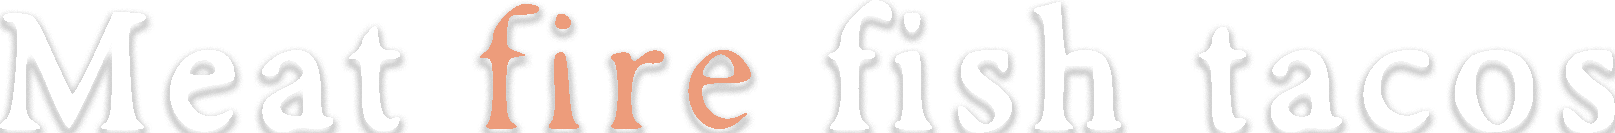
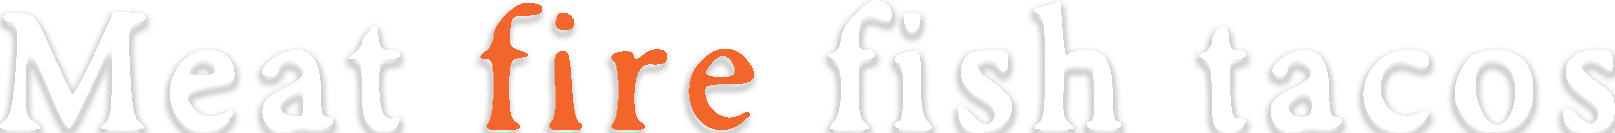
image updates, side scrolling gallery added to about us

Changed region(s): [[0.2786, 0.0301, 0.4644, 0.9925]]

diff --git a/src/components/Home/AboutUsPhotos.ts b/src/components/Home/AboutUsPhotos.ts
@@ -1,0 +1,62 @@
+export const images: string[][] = [
+  [
+    //Weddings
+    "https://www.addtoevent.co.uk/sites/default/files/styles/one_third/public/user/1151856/supplier/images/img-20220612-wa0001.jpg",
+    "https://lh3.googleusercontent.com/pw/AP1GczP_nmGV3zVLmoLKsh7jWoT0dc3gZ4Q__hKujMqSWme09CeosWMuHDkpoqrq8c2BWRJFXYzTo7cwQYojfpv-0WUIuIn7Cc_huv9esRspTzsKucrYJ1wNGAgeFmrX6AbMBl31fUAGLFpj2j7tYif1uA8=w1600-h1067-s-no-gm?authuser=1",
+    "https://encrypted-tbn0.gstatic.com/images?q=tbn:ANd9GcQtvZaF1suvjvk-YmGZCD75LQaC4i0Zgjoh5w&s",
+    "https://lh3.googleusercontent.com/pw/AP1GczOnEi5yvgkabXVKVtrS3yd5BcHIxZphqED5a-xTBbkRXUuo71gb5lT0S7qSSno-ueJsoTbJQUJ6iaqWy68mIxY8QXogzIVcM2Dykxh3oy6n7sEFPbcKQAG4f5Dkw8tSHaE8SoLq_T3Wn4kiQ1jz3Lc=w1048-h1396-s-no-gm?authuser=1",
+    "https://lh3.googleusercontent.com/pw/AP1GczMQ3fGrkLJ-kMmRRFYGD_vqgI6vBIzC-sOKaktX2x2D3YnmkwCwtBx2Seww63b_apil8AzIdg0qaVlLfiNZl3t_ph4t76lTHHnT8km8UxI9-X4_P8twRPsC7Ygs-FczbconWFWheins9k-KHLoWryk=w2094-h1396-s-no-gm?authuser=1",
+    "https://lh3.googleusercontent.com/pw/AP1GczOgVfDRjnO-nQnPv-czG_1Ya-lvUkT5OgdsJxAmx8PlCrPxt1ZvwoRepwMTRUOx0mo_2droDBLe9_4aaPuryVbw6J_jyLewiTqgqSYxq92rXUmPg1Ayij87bTDBlgycAJ1JZA1FUQxPgtnwJZCC35w=w2082-h1388-s-no-gm?authuser=1",
+    "https://i.pinimg.com/564x/cf/48/9b/cf489b7beb92a7e98645edc05daea89d.jpg",
+    "https://lh3.googleusercontent.com/pw/AP1GczMitnkR_9Jqvhg6sa6IZ_3F8mS4rzqS4NtPJICJABflDvqUIXt3xSjkSiSIk6sGwdm9Yow0tyobA9Qkjv83ShZqyLwivC84zjAyNXOu9tiq85_t9fRgXgW5EzeQ9rZqmFWWFuN9kHKQh_Kls2mzb-0=w930-h1396-s-no-gm?authuser=1",
+    "https://lh3.googleusercontent.com/pw/AP1GczNu-8W9uDOozhmyZi6MxxQnyB7m5MxGaKM-f4TZEsi4q4hcm1B9gKQXHMeat7gOR_8vYNIM2nf6TcaEmdH3_PkY2fRdEiVr7RRCrrwX5yFwdI7ZbunOgMAFO67EITwGQMPxhgfuVK-y3OSQLCkkKSI=w2094-h1396-s-no-gm?authuser=1",
+    "https://i.pinimg.com/564x/7b/ef/3c/7bef3c916da08c016c831e1725e04882.jpg",
+  ],
+  [
+    //Festivals
+    //SFS
+    "https://streetfoodcircus.co.uk/sites/default/files/styles/carousel_landscape/public/2024-02/IMG_6412_1.jpg?h=fa10a8d4&itok=krI8TAeZ",
+    //Festival Set Up
+    "https://lh3.googleusercontent.com/pw/AP1GczMrJAbCNe22Bmtm1RINQ6hQ91FqWKBOx-1QdM6cIh_RRX78gx9Vdv2XbGJlhqa_6D-QRX2-mjXFz6BsgyEUtHKHBcGUxHlcNE-4MPFAiSKeAgmkw072X_nuYD30FZllb3HsnHTf6JG5AyXuvoiNQwE=w906-h1356-s-no-gm?authuser=1",
+    "https://lh3.googleusercontent.com/pw/AP1GczOT0h601Coayq0FgNNHd2vv7ZhsikQajO423kdxs4CBuL0ex-Ox_KC5NQnbJh4ZVQLl2LvNfOBf_ibuEVnuWr64-3M31ZNe2BQfZif5_C7ncCqGItp868LaPH5CWwl27Z9XWDo7COT4Osd2AUjFeEY=w1018-h1356-s-no-gm?authuser=1",
+    //Royal Welsh Show
+    "https://rwas.wales/app/uploads/2019/10/ITV-Wales-Cymru-RWS-2019-100-Photo-1.jpg",
+    //Cardiff Food and Drink Festival
+    "https://itsoncardiff.co.uk/wp-content/uploads/2023/05/Cardiff_food_Drink_festival.jpg",
+    //Festival Set Up
+    "https://lh3.googleusercontent.com/pw/AP1GczOr48yVJuh_LM1Bb040atctvIq3OnIERM-PUW0cpofnbIgBxGf1wpja8kF6lQAFidjLL5LQ7xz8zQFgp1nKbBWI1snk1yL5M3HEFPs93ayJwqCpO2JP2Ml7WESVZeFgJmIhEwangYEFduYgi9g-Rs4=w906-h1356-s-no-gm?authuser=1",
+    //Roath Yard
+    "https://i2-prod.walesonline.co.uk/incoming/article27058882.ece/ALTERNATES/s615/1_Street-Food-Circus-Roath-Yard-14052022.jpg",
+    //Caldicot Castle
+    "https://www.southwalesargus.co.uk/resources/images/17023300/?type=responsive-gallery-fullscreen",
+    //Festival Set Up
+    "https://lh3.googleusercontent.com/pw/AP1GczOc6mKgXvsk86R84bDFdKHggsd75CntMI_610cARPuhbJdwdD4qPa81kN1jCnWiRGZ3QKDbjBhJhCHLKEOwrI5GMP67klEDmeN457PmFTYpc953Uc0JpUZvQkNhvr3Tk_-h6xIW93JNvwpEpOy7eUw=w1018-h1356-s-no-gm?authuser=1",
+    //Merthyr Mawr
+    "https://i2-prod.walesonline.co.uk/incoming/article29033453.ece/ALTERNATES/s615b/1_RJS_200424_circus2JPG.jpg",
+  ],
+  [
+    //Pop-ups
+    "https://i2-prod.walesonline.co.uk/incoming/article20257021.ece/ALTERNATES/s615b/0_Screenshot-2021-03-25-162339.jpg",
+    "https://encrypted-tbn0.gstatic.com/images?q=tbn:ANd9GcQjTOOjXJHRKYo8hUplsLk5EzfwVz0AiC4yTg0PNvHJjB9-K8SRJPmfYLzkj5yncrMUoQM&usqp=CAU",
+    "https://encrypted-tbn0.gstatic.com/images?q=tbn:ANd9GcTtebpZJCHY5osO4hPT4ChUQoNqENSQFcfFSw&s",
+    "https://lh3.googleusercontent.com/pw/AP1GczM7HmyYkufkH4D2eRjH4wCTQW8VLUqlr2uyQkUQ61ksC8hHGFfb8VVF1R8OG6362pUzUHvJwGUNl683eDoiDhgnT5KT7HKPcvpTwdqpnZL5nrus36Jna56Ai-LceWG7Ux-DYI9gzeCoWXT8L4s8Vms=w904-h1356-s-no-gm?authuser=1",
+    "https://tiger-yard.com/wp-content/uploads/2023/09/D75_6324-1024x684.jpg",
+    "https://i2-prod.walesonline.co.uk/incoming/article26353849.ece/ALTERNATES/s1227b/0_260223-Twenty-Six-Cardiff-Wales-United-Kingdom.jpg",
+    "https://www.cardiff.ac.uk/__data/assets/image/0004/1294933/CSL-pic1.jpg",
+    "https://i2-prod.walesonline.co.uk/incoming/article20838429.ece/ALTERNATES/s615/0_rbp_mai150621coffee8412JPG.jpg",
+    "https://depotcardiff.com/wp-content/uploads/2023/07/Hire-Page2-1024x684.jpg",
+  ],
+  [
+    //Private Events
+    "https://www.cardiffstudents.com/pageassets/activities/resources/rooms/su-rooms/DSC_0101.JPG",
+    "https://lh3.googleusercontent.com/pw/AP1GczPszyTy9B1W1F5gpixlHSZAwm9g3ygzWpGNn3QNIQLz6z6cEkrDf0Rw81VQVdMQ96olcu0DSiYXswqxbXT1dHJTAvz7OCL1vXeiyK3AoPNbLSAwCox82VyJtFRF3UnK99hiKICz54r0FSsf28L87kM=w904-h1356-s-no-gm?authuser=1",
+    "https://i2-prod.walesonline.co.uk/incoming/article27196742.ece/ALTERNATES/s615b/0_rbp_mai140521pryzm7102JPG.jpg",
+    "https://lh3.googleusercontent.com/pw/AP1GczNWWanr7GMyaUBb7G5LMvp-bxUEs8J2gxtZsVa8Id75Oz8A7qFhidwb9-hRnqUAy1q1o8vIR7bPygd81IG38wMT-VsDD-VRGobrpWaRDQy4T6P5N3oVJK9kKG0S0I2ggbXuU6cZ6NLDefB-rSCNRSs=w2034-h1356-s-no-gm?authuser=1",
+    "https://img.gs/vvjnmlqfld/1200/https://www.conferences-uk.org.uk/logos/cardiff-student-union-image-15743-main-big-17092022085244.jpg",
+    "https://lh3.googleusercontent.com/pw/AP1GczNj3hm88CQh_QqKw6ci8Fiji6XD4EYgCRM9qVpIdFJHuWv0jF4YduVtil09qZUsdwLn_N-ZYVVe0ERhDoDH9Yj0cpX5YOFPe7W2-8wFvZBdOiNQoKO6jFwpmIyFvei6LbN6qoXWB7gNWkDekYKUXxs=w1018-h1356-s-no-gm?authuser=1",
+    "https://lh3.googleusercontent.com/pw/AP1GczMq8oud1zrqpabuiWNxmrZWZ6WFrXJ3I-rKDjKbQz9Eqwunm6VrKEBEMgVwaPy1MUX2izZx0meMcIDu805erFyrMidS95i2frHmvsB9EPnh2QkmivQqeajISwyyeFpVAEGlCgDOFIq7MXlhpAEO8BA=w1600-h1067-s-no-gm?authuser=1",
+    "https://lh3.googleusercontent.com/pw/AP1GczOdHEvWvsCJWm_LsAk9MMdgdWZjoXQ5CE3ddm50Em_LJQVeigzsisZdc1RSjrFYem1dDmfxmj3J5eoDhGCrvy32teIdznGCkG3QZVueuUoOiNRVoCKt5kcRFeOVFLafdk2ax6lT7pQ9myv7ev-KrgY=w904-h1356-s-no-gm?authuser=1",
+    "https://lh3.googleusercontent.com/pw/AP1GczNJqUfPddVI_iPj4yWLq-SzyNoIFrbkyjnn0Ylk6aIRMtS5ipMDMCCDBGXwFTkZtZPoFfkHKsrTyG_j5F22ezf7lsxrzBpHcR9xxDQh3QaTLuqtPy56TUanQPyt_JTge4ViIxCSbeAg5FypwDVS9Ao=w2034-h1356-s-no-gm?authuser=1",
+    "https://i.pinimg.com/564x/8d/9c/b8/8d9cb80f6a2b98b478a737346552c9b8.jpg",
+  ],
+];

diff --git a/src/components/Home/AboutUs.tsx b/src/components/Home/AboutUs.tsx
@@ -1,6 +1,7 @@
 import React, { useState, useEffect } from "react";
 import { motion, useAnimation } from "framer-motion";
 import { useInView } from "react-intersection-observer";
+import { images } from "./AboutUsPhotos";
 
 const AboutUs: React.FC = () => {
   const controls = useAnimation();
@@ -27,10 +28,12 @@ const AboutUs: React.FC = () => {
   ];
 
   const [currentText, setCurrentText] = useState<string>(defaultText);
+  const [currentImages, setCurrentImages] = useState<string[]>(images[1]);
   const [selectedButton, setSelectedButton] = useState<number | null>(null);
 
   const handleClick = (index: number) => {
     setCurrentText(texts[index]);
+    setCurrentImages(images[index]);
     setSelectedButton(index);
   };
 
@@ -39,17 +42,38 @@ const AboutUs: React.FC = () => {
   };
 
   return (
-    <>
+    <div className="flex flex-col items-center justify-evenly">
+      <motion.div
+        className="flex flex-row justify-evenly items-center w-screen"
+        initial={{ opacity: 0 }}
+        animate={inView ? { opacity: 1 } : { opacity: 0 }}
+        transition={{ duration: 2 }}
+        ref={ref}
+      >
+        <div className="scrolling-wrapper overflow-hidden h-44 w-screen">
+          <div className="scrolling-content gap-2">
+            {currentImages.map((image, index) => (
+              <img
+                key={index}
+                src={image}
+                alt="about us images"
+                className="h-auto border-2 border-white rounded-3xl"
+              />
+            ))}
+          </div>
+        </div>
+      </motion.div>
+
       <div
         id="aboutus"
-        className="flex flex-col h-[400px] w-full bg-black items-center  border-b-2 border-b-white"
+        className="flex flex-col h-[400px] w-full bg-black items-center border-b-2 border-b-white"
       >
         <motion.div
           initial={{ opacity: 0 }}
           animate={inView ? { opacity: 1 } : { opacity: 0 }}
           transition={{ duration: 2 }}
           ref={ref}
-          className="mt-[-50px] z-1 flex flex-row justify-center items-center lg:w-[90%] sm:w-[50%] h-2/3 bg-transparent text-white"
+          className="mt-[-25px] mb-[-25px] z-1 flex flex-row justify-evenly items-center lg:w-[90%] sm:w-[50%] h-2/3 bg-transparent text-white"
         >
           <h1
             className="text-xl sm:w-[90%] lg:w-[70%] text-center text-wrap"
@@ -64,10 +88,10 @@ const AboutUs: React.FC = () => {
           animate={inView ? { opacity: 1 } : { opacity: 0 }}
           transition={{ duration: 2 }}
           ref={ref}
-          className="z-1 flex flex-row justify-center items-end mb-5 sm:w-[70%] lg:w-[50%] bg-transparent text-white"
+          className="z-1 flex flex-row justify-center items-start mb-5 sm:w-[70%] lg:w-[50%] bg-transparent text-white"
         >
           <button
-            className={`max-max-w-[210px] min-w-[190px] ml-3 border rounded-xl ${
+            className={`max-max-w-[210px] min-w-[190px] h-[32px] ml-3 border rounded-xl ${
               selectedButton === 0
                 ? "text-orange border-orange"
                 : "hover:text-orange hover:border-orange"
@@ -77,7 +101,7 @@ const AboutUs: React.FC = () => {
             WEDDINGS
           </button>
           <button
-            className={`max-w-[220px] min-w-[190px] ml-3 border rounded-xl sm:text-lg ${
+            className={` max-w-[220px] min-w-[190px] h-[32px] ml-3 border rounded-xl sm:text-lg ${
               selectedButton === 1
                 ? "text-orange border-orange"
                 : "hover:text-orange hover:border-orange"
@@ -95,7 +119,7 @@ const AboutUs: React.FC = () => {
           className="z-1 flex flex-row justify-center items-start sm:w-[70%] lg:w-[50%] bg-transparent text-white"
         >
           <button
-            className={`max-w-[220px] min-w-[190px] ml-3 border rounded-xl sm:text-lg ${
+            className={`max-w-[220px] min-w-[190px] h-[32px] ml-3 border rounded-xl sm:text-lg ${
               selectedButton === 2
                 ? "text-orange border-orange"
                 : "hover:text-orange hover:border-orange"
@@ -105,7 +129,7 @@ const AboutUs: React.FC = () => {
             POP-UPS
           </button>
           <button
-            className={`max-w-[220px] min-w-[190px] ml-3 border rounded-xl sm:text-lg ${
+            className={`max-w-[220px] min-w-[190px] h-[32px] ml-3 border rounded-xl sm:text-lg ${
               selectedButton === 3
                 ? "text-orange border-orange"
                 : "hover:text-orange hover:border-orange"
@@ -116,7 +140,7 @@ const AboutUs: React.FC = () => {
           </button>
         </motion.div>
       </div>
-    </>
+    </div>
   );
 };
 

diff --git a/src/components/Home/Landing.tsx b/src/components/Home/Landing.tsx
@@ -1,5 +1,5 @@
 import { useEffect } from "react";
-import Logo from "../assets/images/Logo.png";
+import Logo from "../assets/images/Banner-Logo.png";
 import LandingPageImage from "../assets/images/landing-no-text-2.jpg";
 import { motion, useAnimation } from "framer-motion";
 import { useInView } from "react-intersection-observer";
@@ -33,7 +33,7 @@ export default function Landing() {
           transition={{ duration: 2 }}
           ref={ref}
           src={Logo}
-          className="pb-2 z-10 w-1/4 max-sm:w-2/4 max-lg:2/4 "
+          className="pb-2 z-10 w-2/4 max-sm:w-3/4 max-lg:2/4 "
           alt="Sin Nombre Logo"
         />
         <div className="absolute inset-0 bg-gradient-to-b from-transparent to-black opacity-100"></div>

diff --git a/src/index.css b/src/index.css
@@ -72,3 +72,41 @@ h2 {
     transform: translateY(0);
   }
 }
+
+/* About Us Gallery */
+@keyframes scroll {
+  0% {
+    transform: translateX(0%);
+  }
+  25% {
+    transform: translateX(-25%);
+  }
+  50% {
+    transform: translateX(-50%);
+  }
+  75% {
+    transform: translateX(-25%);
+  }
+  100% {
+    transform: translateX(0%);
+  }
+}
+
+.scrolling-wrapper {
+  display: flex;
+  overflow: hidden;
+  position: relative;
+}
+
+.scrolling-content {
+  display: flex;
+  animation: scroll 120s linear infinite;
+}
+
+.scrolling-content img {
+  max-height: 11rem;
+  height: auto;
+  object-fit: cover;
+  filter: contrast(130%);
+  filter: brightness(75%);
+}

diff --git a/src/components/Events/eventsdata.ts b/src/components/Events/eventsdata.ts
@@ -39,12 +39,4 @@ export const events: Event[] = [
     thumbnail:
       "https://media-cdn.tripadvisor.com/media/photo-s/1c/e4/14/73/venue.jpg",
   },
-  {
-    id: 3,
-    name: "Rhostio Speciality Coffee",
-    location: "16C Crwys Rd, Cardiff",
-    date: "Every Friday Summer 2024",
-    thumbnail:
-      "https://europeancoffeetrip.com/wp-content/uploads/city-guides/cafes/4086/rhostiospecialtycoffee-cardiff-owners-12.jpeg",
-  },
 ];

diff --git a/tailwind.config.js b/tailwind.config.js
@@ -5,7 +5,7 @@ module.exports = {
     extend: {
       colors: {
         black: "#0e0e0e",
-        orange: "#ed9c7b",
+        orange: "#f2662c",
       },
       screens: {
         sm: "640px", // Default: 640px
